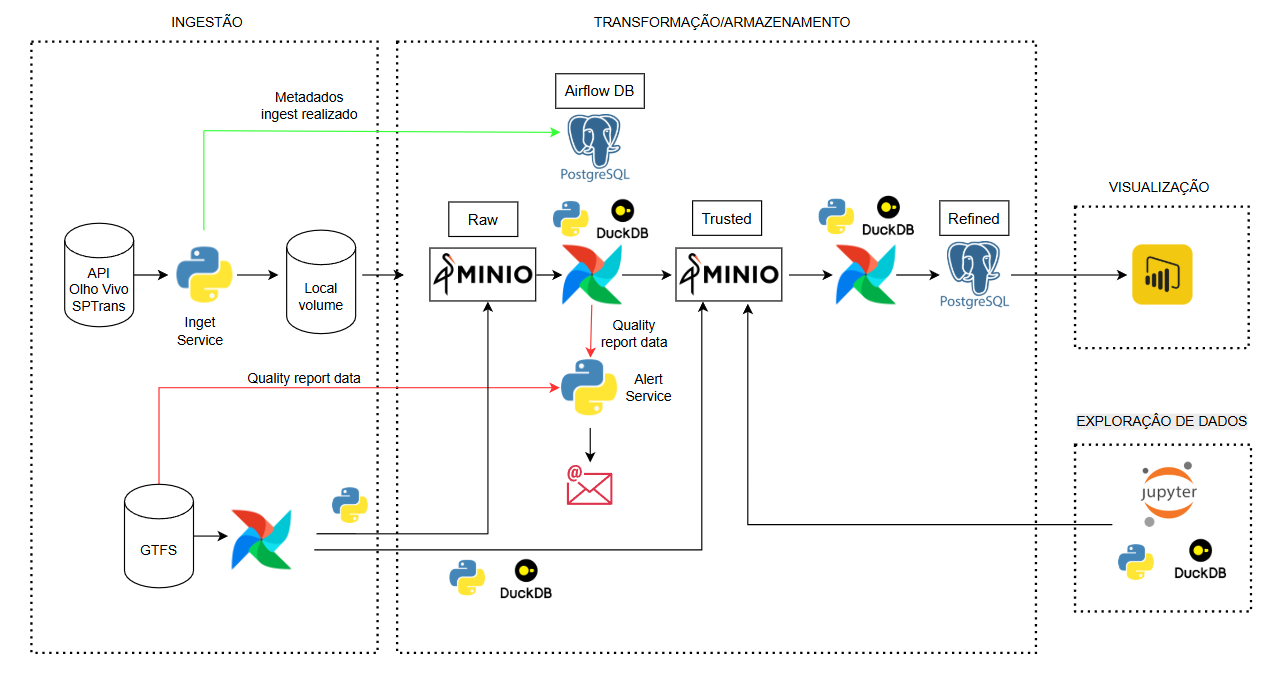
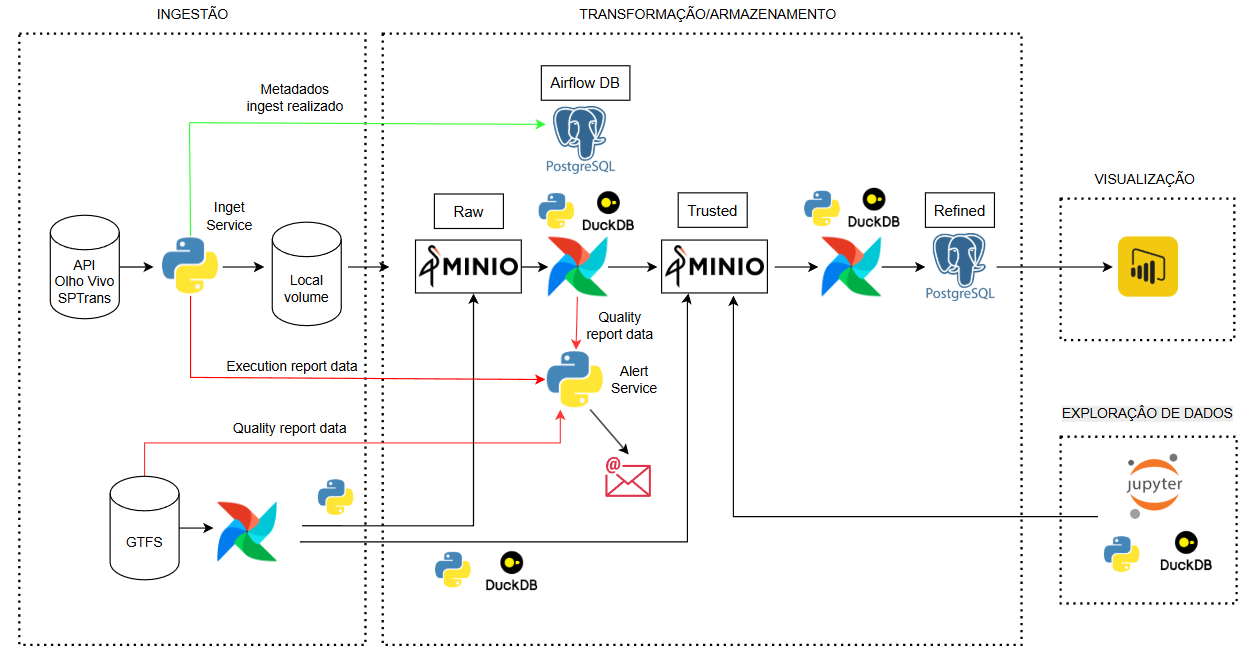
docs(alertservice): updated alertservice refernces and documentation

diff --git a/README.md b/README.md
@@ -3,7 +3,7 @@ Este projeto proporciona aos seus usuários visualizações sobre as posições 
 Para isto, o Sptransinsights, em intervalos regulares, extrai as posições de todos os ônibus em circulação em cada momento, armazenando estes dados para gerar informações sobre as viagens de cada veículo de cada linha e, assim, proporcionar insights aos seus usuários, permitindo que identifiquem os melhores momentos para fazerem suas viagens.
 
 A pipeline mais crítica do projeto (`transformlivedata`) aplica um framework completo de qualidade de dados, com validações orientadas a configuração (JSON Schema e Great Expectations), quarentena de registros inválidos e geração de relatório de qualidade com resumo e detalhes do processamento proporcionando informações de observabilidade.  
-Observação: o resumo de qualidade é enviado via webhook para o microserviço `alertservice`, responsável por emitir notificações e alertas por e-mail.
+Observação: os resumos de qualidade das pipelines `transformlivedata`, `gtfs` e do microserviço `extractloadlivedata` são enviados via webhook para o microserviço `alertservice`, responsável por emitir notificações e alertas por e-mail com alertas imediatos para falhas e alertas cumulativos para warnings.
 
 A solução adota o conceito de monorepo e é composta por alguns subprojetos. Cada um deles possui um README com informações sobre o seu papel e os requisitos para o seu funcionamento.
 
@@ -33,7 +33,7 @@ Detalhes sobre as DAGS:
     - DAG updatelatestposition: processo de transformação para criação dos dados de última posição de cada ônibus na camada refined a partir dos dados da camada trusted. ![Para mais informações:](./dags-dev/updatelatestpositions/README.md)
 
 - extractloadlivedata: microserviço que extrai os dados da API da SPTRANS a intervalos regulares, inicialmente a cada 2 minutos, mas possibilitando que este intervalo seja reduzido, o que não seria viável usando um job no Airflow, uma vez que atrasos na execução impactariam a precisão dos intervalos entre execuções da extração de dados, e salvando em um volume local e em seguida na camada raw, implementada usando o Minio. ![Para mais informações:](./extractloadlivedata/README.md)
-- alertservice: microserviço que recebe resumos de qualidade via webhook e envia notificações por e-mail, com alertas imediatos para falhas e alertas cumulativos para warnings. ![Para mais informações:](./alertservice/README.md)
+- alertservice: microserviço que recebe resumos de qualidade via webhook de `transformlivedata`, `gtfs` e `extractloadlivedata`, e envia notificações por e-mail com alertas imediatos para falhas e alertas cumulativos para warnings baseados em limiares configuráveis por pipeline. ![Para mais informações:](./alertservice/README.md)
 - Minio: utilizado para implementar as camadas raw, para armazenamento de dados brutos extraídos da API SPTrans e dados GTFS da SPTrans, e para os dados da camada trusted
 - DuckDB: utilizado nos processos de transformação para fazer queries SQL diretamente nas tabelas armazenadas em formato Parquet na camada trusted, implementada através do Minio, com excelente performance, e sem requerer a implementação de motores SQL como o Presto, assim reduzindo a complexidade da infraestrutura. Utilizado também para análise exploratória de dados com intermédio do Jupyter
 - Jupyter: usado para criar notebooks com a finalidade de viabilizar a exploração de dados na camada trusted armazenada no object storage. ![Para mais informações:](./jupyter/README.md)

diff --git a/extractloadlivedata/README.md b/extractloadlivedata/README.md
@@ -22,9 +22,14 @@ Embora esta não seja a melhor opção para resiliência completa do fluxo, há 
 - Escopo: o serviço publica **somente resumo de execução** para alertservice; não há persistência de artefato JSON de relatório.
 - Contrato de resumo enviado:
   - `contract_version`, `pipeline`, `execution_id`, `status`
-  - `items_total`, `items_failed`, `retries`
+  - `items_total`, `items_failed`, `retries`, `acceptance_rate`
+  - `generated_at_utc` (timestamp UTC da geração do resumo)
   - `failure_phase`, `failure_message` (apenas em `FAIL`)
   - `quality_report_path` com valor `"null"` por compatibilidade de contrato.
+- Enum de status de execução:
+  - `PASS`: nenhuma falha, zero retries
+  - `WARN`: nenhuma falha mas com retries detectados
+  - `FAIL`: uma ou mais fases falharam
 - Enum de fase de falha (orquestração):
   - `positions_download`
   - `local_ingest_buffer_save_positions`
@@ -106,6 +111,7 @@ AIRFLOW_PASSWORD = "ingest_password"  # senha para autenticação na API do Airf
 AIRFLOW_WEBSERVER = "localhost"  # hostname do webserver do Airflow
 AIRFLOW_DAG_NAME = "transformlivedata-v5"  # DAG alvo para invocação via API
 INVOKATIONS_CACHE_DIR = "../.diskcache_pending_invocations"  # cache para invocações pendentes do Airflow
+NOTIFICATIONS_WEBHOOK_URL="http://localhost:8000/notify" # url para envio de alertas através do alertservice
 
 ## Testes unitários
 Os testes são focados em comportamento relevante e invariantes de negócio, usando injeção de dependências e fakes (sem monkeypatch), para garantir isolamento das integrações externas. A cobertura atual inclui:
@@ -113,7 +119,9 @@ Os testes são focados em comportamento relevante e invariantes de negócio, usa
 - `tests/test_save_load_bus_positions.py`: validação de estrutura, compressão, leitura de arquivos, persistência com retries, remoção de arquivos locais e filtros de pendências.
 - `tests/test_save_processing_requests.py`: criação e disparo de requests de processamento com cache e persistência no banco.
 - `tests/test_trigger_airflow.py`: criação e disparo de invocações do Airflow via HTTP e cache.
-- `tests/test_extractloadlivedata_orchestrator.py`: roteamento do orquestrador entre `processing_requests` e `airflow`, e validação de configuração.
+- `tests/test_extractloadlivedata_orchestrator.py`: roteamento do orquestrador entre `processing_requests` e `airflow`, validação de configuração, e testes de orquestração com alertservice integrado.
+- `tests/test_alertservice.py`: construção de payload, envio de alertas com webhook enabled/disabled, e comportamento não-bloqueante em falhas.
+- `tests/test_reporting.py`: construção de sumário de execução com contrato validado (success e failure paths).
 - `tests/test_sql_db_v2.py`: contratos de persistência, seleção e atualização com engine injetado.
 - `tests/test_object_storage.py`: leitura, listagem e escrita no object storage com cliente injetado.
 

diff --git a/dags-dev/transformlivedata/README.md b/dags-dev/transformlivedata/README.md
@@ -71,6 +71,12 @@ Isso permite identificar exatamente em qual fase o processamento parou e quais m
 }
 ```
 
+### Notificação e observabilidade (alertservice)
+O resumo (`summary`) do relatório é enviado via webhook para o microserviço `alertservice` quando este está habilitado.
+O resumo contém informações de status, fases de falha e métricas de transformação para disparar alertas imediatos (FAIL) ou cumulativos (WARN) configurados no alertservice.
+O alertservice envia notificações por e-mail com base em limiares configuráveis por pipeline:
+- **FAIL (imediato)**: qualquer status FAIL gera e-mail imediato
+- **WARN (cumulativo)**: alertas de warning são aggregados dentro de uma janela de tempo configurável (ex.: 24 horas) e enviados quando limiares são atingidos
 
 ## Pré-requisitos
 - Disponibilidade de quatro buckets: para a camada raw, para a camada trusted, para os registros em quarentena e para os relatórios de qualidade, previamente criados no serviço de object storage
@@ -124,7 +130,7 @@ Chaves esperadas em `general`
     "raw_data_compression_extension": ".zst"
   },
   "notifications": {
-    "webhook_url": "http://localhost:8000/notify"
+    "webhook_url": "http://localhost:8000/notify"  // URL do microserviço alertservice
   },
   "data_validations": {
     "json_validation": {
@@ -137,8 +143,8 @@ Chaves esperadas em `general`
 }
 ```
 
-Observação: `webhook_url` é obrigatório.  
-Para desativar notificações, use o valor `"disabled"`.
+Observação: `webhook_url` é a URL do microserviço `alertservice` e é obrigatório.  
+Para desativar notificações para o alertservice, use o valor `"disabled"`.
 
 ### Airflow (produção)
 No Airflow, as configurações e credenciais são gerenciadas utilzando-se os recursos de Variables e Connections que são armazenadas pelo próprio Airflow, conforme listado a seguir. Qualquer alteração nessas informações deve ser feitas via UI do Airflow ou via linha de comando conectando-se ao webserver do Airflow via comando docker exec.

diff --git a/dags-dev/gtfs/README.md b/dags-dev/gtfs/README.md
@@ -111,14 +111,15 @@ Artefatos de expectations carregados automaticamente via `pipeline_configurator`
 - A seção `summary` segue o contrato padrão definido em `quality.reporting`, com os campos adicionais específicos da pipeline GTFS: `stage`, `validated_items_count`, `relocation_status`, `relocation_error`.
 - `acceptance_rate` é um valor contínuo entre 0.0 e 1.0, calculado como `(validated_items_count - rows_failed) / validated_items_count` sobre o total de itens processados em todas as fases. Antes era binário (0.0 ou 1.0).
 
-### Relato de falha e webhook
+### Relato de qualidade e notificação (alertservice)
 - Em falhas de qualquer fase, a pipeline gera e persiste um relatório consolidado com:
   - `failure_phase`
   - `failure_message`
   - resultados de cada fase em `details.stages`
   - `validated_items_count`, `error_details`, `relocation_status`, `relocation_error` por fase
   - artefatos de `column_lineage` no estágio de enrichment
-- O resumo (`summary`) é enviado via webhook quando `notifications.webhook_url` não estiver como `disabled`/`none`/`null`.
+- O resumo (`summary`) é enviado via webhook para o microserviço `alertservice` quando este está habilitado.
+- O resumo contém informações de status, fases de falha e métricas de validação para disparar alertas imediatos (FAIL) ou cumulativos (WARN) configurados no alertservice.
 - A notificação é disparada pela DAG (`_send_webhook_from_report`) após a persistência do relatório, de forma separada do serviço de construção do relatório.
 
 ### Regras de teste
